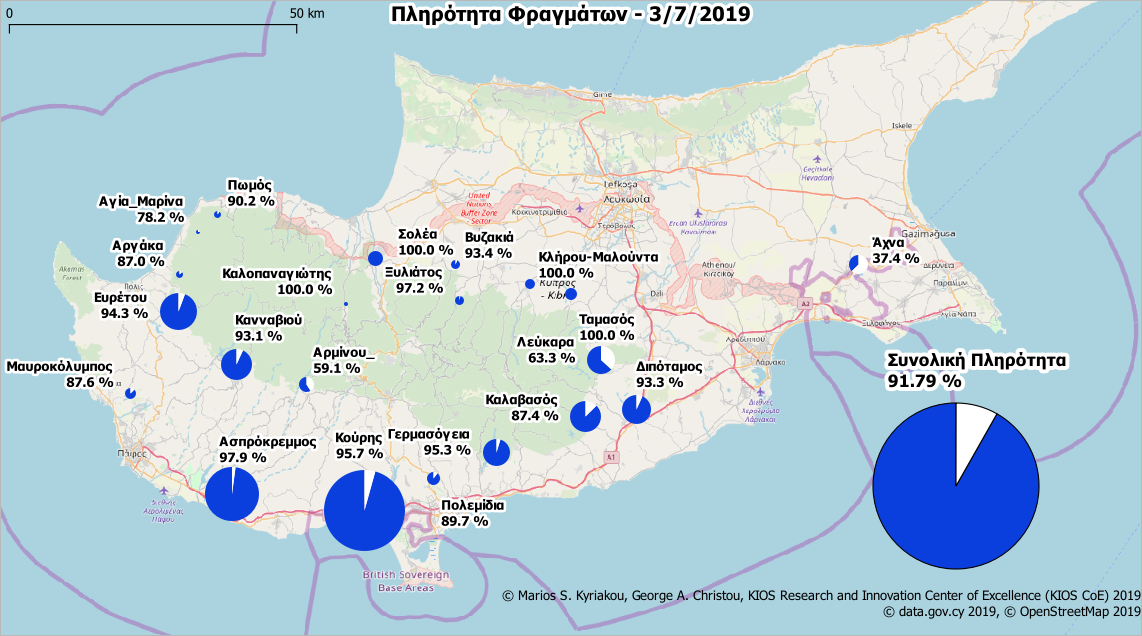
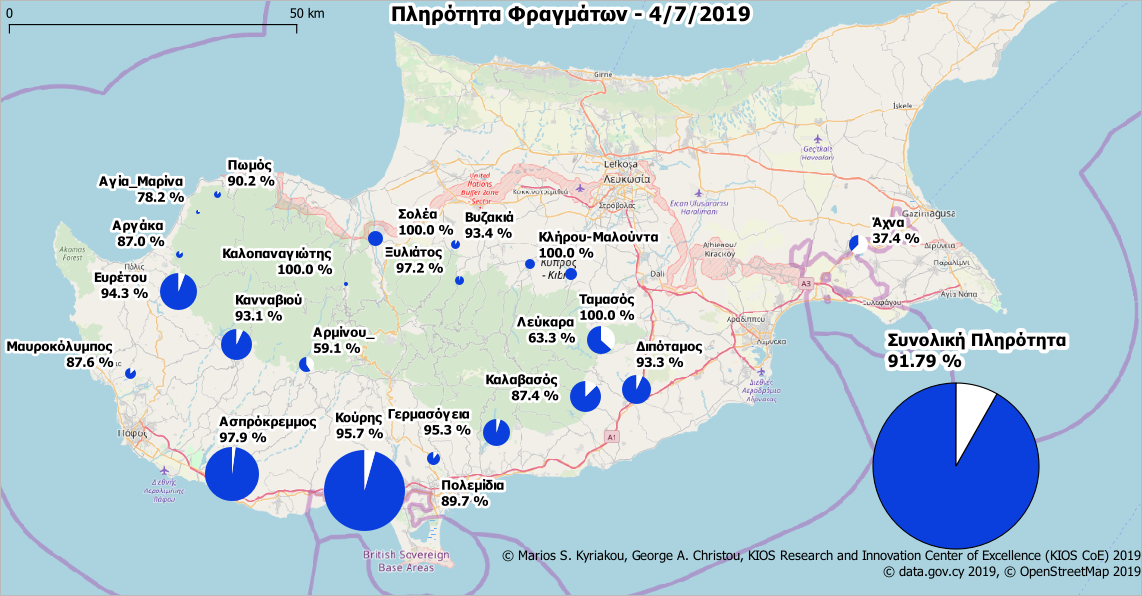
update

diff --git a/dams.html b/dams.html
@@ -11,7 +11,7 @@
          1px  1px 7px WHITE;
     }
     }
-    </style><p><b>Ημερομηνία ανανέωσης δεδομένων: 3/7/2019<p><font color="#0000FF">Η συνολική πληρότητα στα φράγματα είναι 91.79%</font>.<p>Υπάρχουν συνολικά <font color="#0000FF">4</font> φράγματα με πληρότητα <font color="#0000FF">100%</font>.<p>Υπάρχουν <font color="#0000FF">20</font> φράγματα με πληρότητα πάνω από <font color="#0000FF">50%</font>.</b><p><b>Υπάρχουν δεδομένα για 21 φράγματα. Συνολικά υπάρχουν 108 φράγματα. <b><p><p><p>* Ε.Κ.Μ. - Εκατομμύρια Kυβικά  Mέτρα.<table width="444">
+    </style><p><b>Ημερομηνία ανανέωσης δεδομένων: 4/7/2019<p><font color="#0000FF">Η συνολική πληρότητα στα φράγματα είναι 91.79%</font>.<p>Υπάρχουν συνολικά <font color="#0000FF">4</font> φράγματα με πληρότητα <font color="#0000FF">100%</font>.<p>Υπάρχουν <font color="#0000FF">20</font> φράγματα με πληρότητα πάνω από <font color="#0000FF">50%</font>.</b><p><b>Υπάρχουν δεδομένα για 21 φράγματα. Συνολικά υπάρχουν 108 φράγματα. <b><p><p><p>* Ε.Κ.Μ. - Εκατομμύρια Kυβικά  Mέτρα.<table width="444">
     <tbody>
     <tr>
     <th width="2"><b></b></th>
